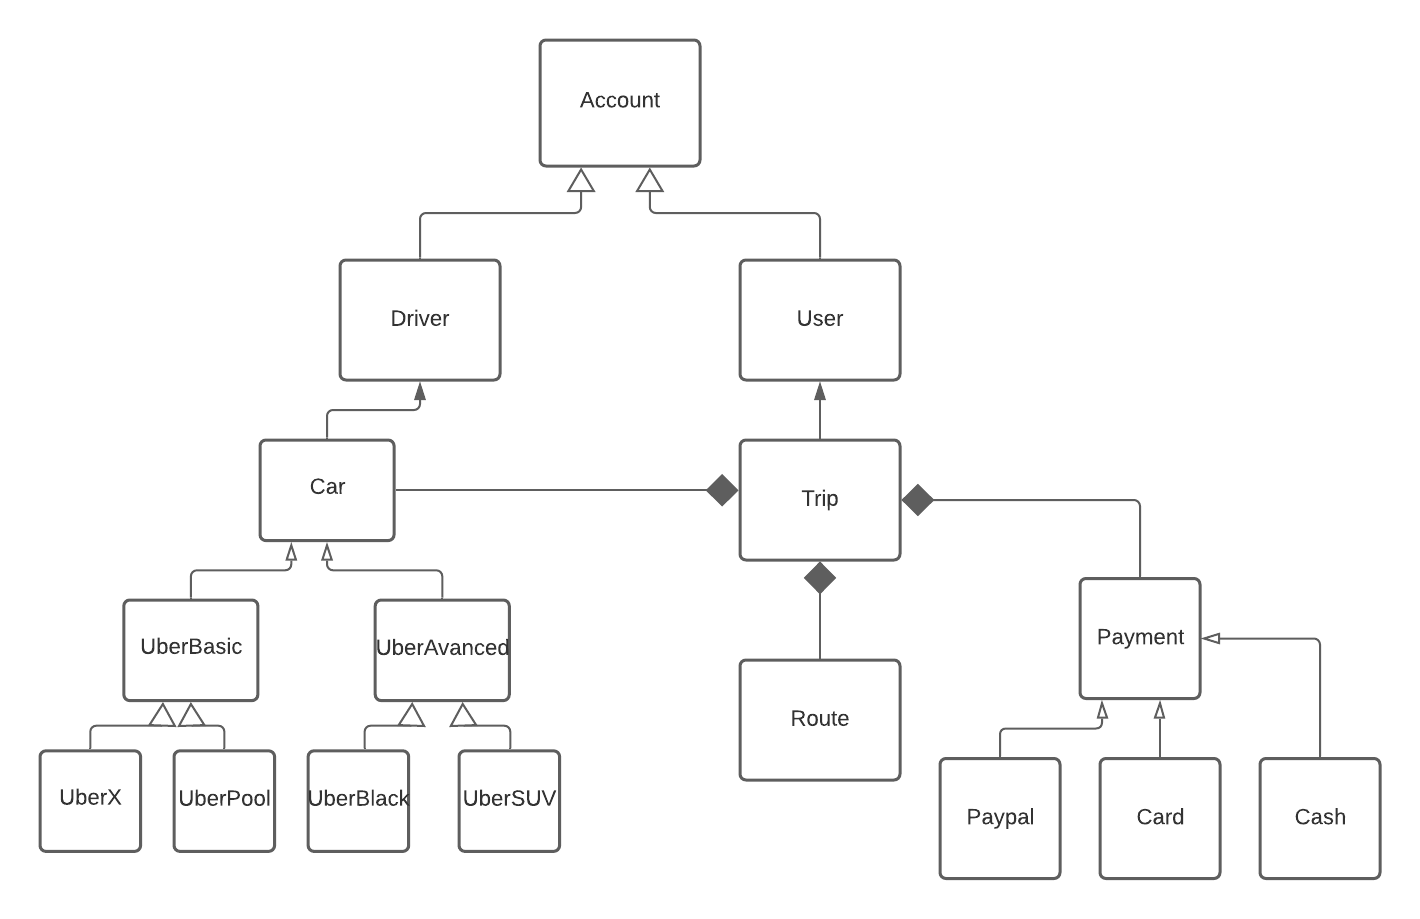
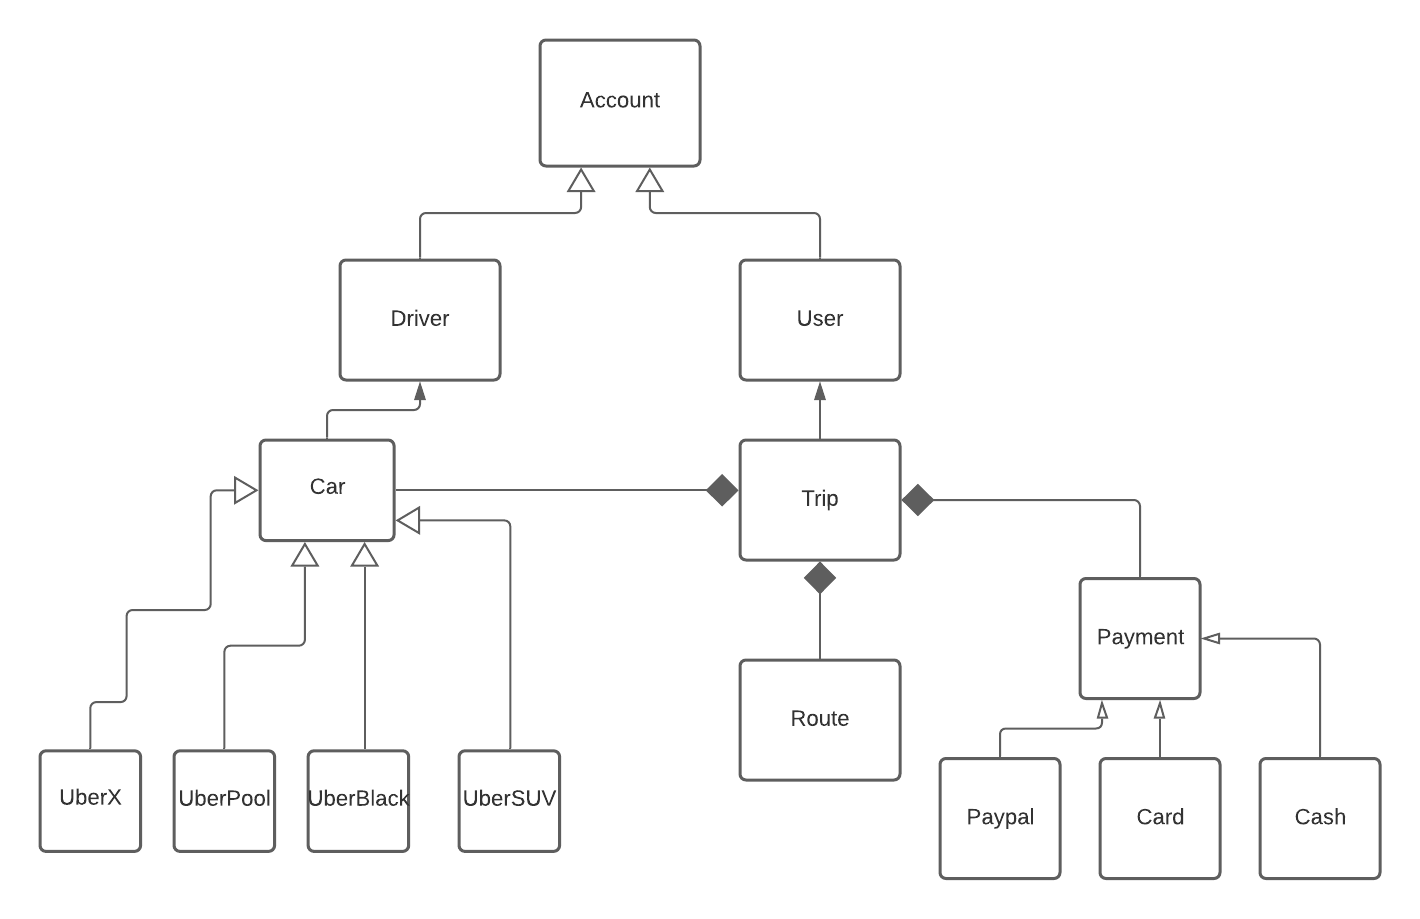
Agreagando lineamientos

Changed region(s): [[0.062, 0.5789, 0.3718, 0.7922], [0.2789, 0.5484, 0.3408, 0.5789], [0.1549, 0.518, 0.1859, 0.5484]]

diff --git a/src/models/Car.java b/src/models/Car.java
@@ -3,7 +3,7 @@
  * To change this template file, choose Tools | Templates
  * and open the template in the editor.
  */
-package Models;
+package models;
 /**
  *
  * @author uomo2
@@ -12,20 +12,18 @@ public class Car {
     //Atributes
     public int id;    
     public String license;
-    public String driver;
+    public Account name_Driver;
     public int passengers;
     
-    public Car(int id, String license, String driver, int passengers){
-        this.id = id;
+    public Car(String license, Account name_Driver){
         this.license = license;
-        this.driver = driver;
-        this.passengers = passengers;
+        this.name_Driver = name_Driver;
     }
-    
-    public void InfoDataCar(){
+    //Methods
+    public void print_Data_Car(){
         System.out.println("Id :" + id);
         System.out.println("license: " + license);
-        System.out.println("Driver: " + driver);
+        System.out.println("Driver: " + name_Driver);
         System.out.println("Number of passenger: " + passengers);
     }
     

diff --git a/src/models/Account.java b/src/models/Account.java
@@ -1,0 +1,28 @@
+/*
+ * To change this license header, choose License Headers in Project Properties.
+ * To change this template file, choose Tools | Templates
+ * and open the template in the editor.
+ */
+package models;
+
+/**
+ *
+ * @author uomo2
+ */
+public class Account {
+    public int id; //Atributes
+    public String name_Driver;
+    public String document;
+    public String email;
+    public String password;
+    
+    public Account(String name_driver, String document){
+        this.name_Driver = name_Driver;
+        this.document = document;
+    }
+    
+    //Methods
+    public void print_Data_User(){
+        System.out.println("El nombre del usuario  es " + this.name_Driver + " , con ID: " + this.id);
+    }
+}

diff --git a/src/models/Uber_Black.java b/src/models/Uber_Black.java
@@ -1,0 +1,21 @@
+/*
+ * To change this license header, choose License Headers in Project Properties.
+ * To change this template file, choose Tools | Templates
+ * and open the template in the editor.
+ */
+package models;
+import java.util.Map;
+import java.util.ArrayList;
+/**
+ *
+ * @author uomo2
+ */
+public class Uber_Black extends Car{
+    Map<String, ArrayList<String, Integer>> typer_Car_Accepted;
+    Array<String> seats_Material;
+    
+    public Uber_Black(String license, Account name_Driver){
+        super(license, name_Driver);
+    }
+    
+}

diff --git a/src/models/Uber_Pool.java b/src/models/Uber_Pool.java
@@ -1,0 +1,23 @@
+/*
+ * To change this license header, choose License Headers in Project Properties.
+ * To change this template file, choose Tools | Templates
+ * and open the template in the editor.
+ */
+package models;
+
+/**
+ *
+ * @author uomo2
+ */
+public class Uber_Pool extends Car{
+    String brand;
+    String model;
+    
+    public Uber_Pool(String License, Account name_Driver, String brand, String model){
+        super(License, name_Driver);
+        this.brand = brand;
+        this.model = model;
+    }
+    
+    
+}

diff --git a/src/models/Uber_X.java b/src/models/Uber_X.java
@@ -1,0 +1,21 @@
+/*
+ * To change this license header, choose License Headers in Project Properties.
+ * To change this template file, choose Tools | Templates
+ * and open the template in the editor.
+ */
+package models;
+
+/**
+ *
+ * @author uomo2
+ */
+public class Uber_X extends Car{
+    String brand;
+    String model;
+    
+    public Uber_X(String license, Account name_Driver, String brand, String Model){
+        super(license, name_Driver);
+        this.brand = brand;
+        this.model = model;
+    }
+}

diff --git a/src/models/Route.java b/src/models/Route.java
@@ -1,4 +1,4 @@
-package Models;
+package models;
 import java.util.ArrayList;
 /**
  *
@@ -7,6 +7,5 @@ import java.util.ArrayList;
 public class Route {
     Integer id;
     ArrayList<Double> start;
-    ArrayList<Double> end;
-    
+    ArrayList<Double> end;    
 }

diff --git a/src/tests/Main_Test.java b/src/tests/Main_Test.java
@@ -1,0 +1,15 @@
+package tests;
+import models.Car;
+
+/**
+ *
+ * @author uomo2
+ */
+public class Main_Test {
+   public static void main (String[] args){
+       
+      } 
+   }
+       
+   
+

diff --git a/src/models/Payment.java b/src/models/Payment.java
@@ -3,7 +3,7 @@
  * To change this template file, choose Tools | Templates
  * and open the template in the editor.
  */
-package Models;
+package models;
 /**
  *
  * @author uomo2
